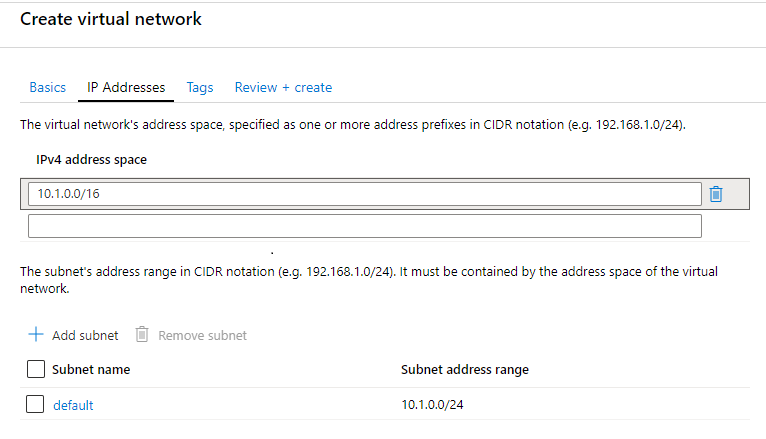
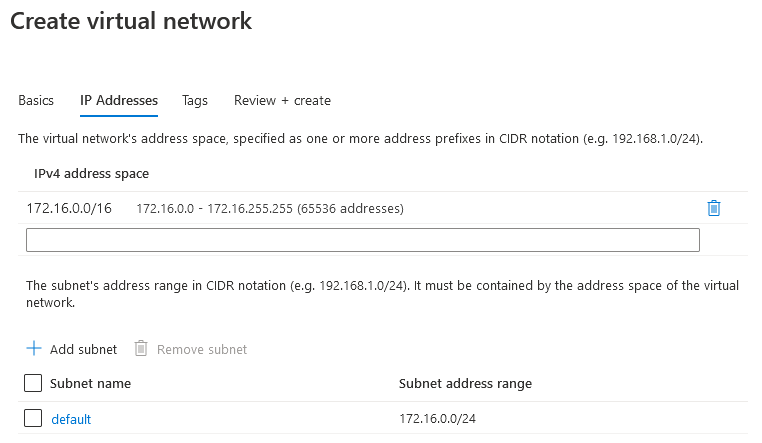
Update images & content to match portal

diff --git a/articles/azure/azs-how-create-load-balancer.md b/articles/azure/azs-how-create-load-balancer.md
@@ -66,7 +66,7 @@ In this section we will create a load balancer with a public IP address.
 
         - Select either **Dynamic** or **Static** from the **Assignment** options. We recommend selecting the **Static** option when creating a load balancer.
 
-    ![Create new load balancer](images/azs-browser-create-load-balancer.png)
+    - ![Create new load balancer](images/azs-browser-create-load-balancer.png)
 
 6. Click **Review + create**, then click **Create** on the review blade.
 
@@ -90,23 +90,29 @@ In this section we will create a virtual network and two virtual machines which 
 
 4. In the **Create virtual network** blade, enter the following information:
 
-   - **Name** - The name of the virtual network.
+    - **Basics** tab
 
-   - **Address Space** - The virtual network's address range in CIDR notation (for example, 192.168.1.0/16).
+        - **Subscription** - This is your UKCloud for Microsoft Azure subscription and will be pre-populated by default.
 
-   - **Subscription** - This is your UKCloud for Microsoft Azure subscription and will be pre-populated by default.
+        - **Resource Group** - Select an existing resource group, or create a new one by clicking the **Create new** link and then typing a name for your new resource group in the pop out window.
 
-   - **Resource Group** - Select an existing resource group, or create a new one by clicking the **Create new** link and then typing a name for your new resource group in the pop out window.
+        - **Name** - The name of the virtual network.
 
-   - **Location** - This will be `frn00006`, which is the location of the Azure Stack Hub.
+        - **Region** - This will be `frn00006`, which is the location of the Azure Stack Hub.
 
-   - **Subnet Name** - The name of the first subnet within the virtual network.
+    - ![Create new virtual network - Basics](images/azs-browser-create-virtual-network.png)
 
-   - **Address Range** - The subnet's address range in CIDR notation (for example, 192.168.1.0/24). It must be contained by the address space of the virtual network. The address range of a subnet which is in use can't be edited.
+    - **IP Addresses** tab
 
-     ![Create new virtual network](images/azs-browser-create-virtual-network.png)
+        - **IPv4 address space** - The virtual network's address range in CIDR notation (for example, 192.168.1.0/16).
 
-5. Click **Create**.
+        - **Subnet name** - The name of the first subnet within the virtual network.
+
+        - **Subnet address range** - The subnet's address range in CIDR notation (for example, 192.168.1.0/24). It must be contained by the address space of the virtual network. The address range of a subnet which is in use can't be edited.
+
+    - ![Create new virtual network - IP Addresses](images/azs-browser-create-virtual-network2.png)
+
+5. Click **Review + create**, then click **Create** on the review blade.
 
 ### Create the virtual machines
 
